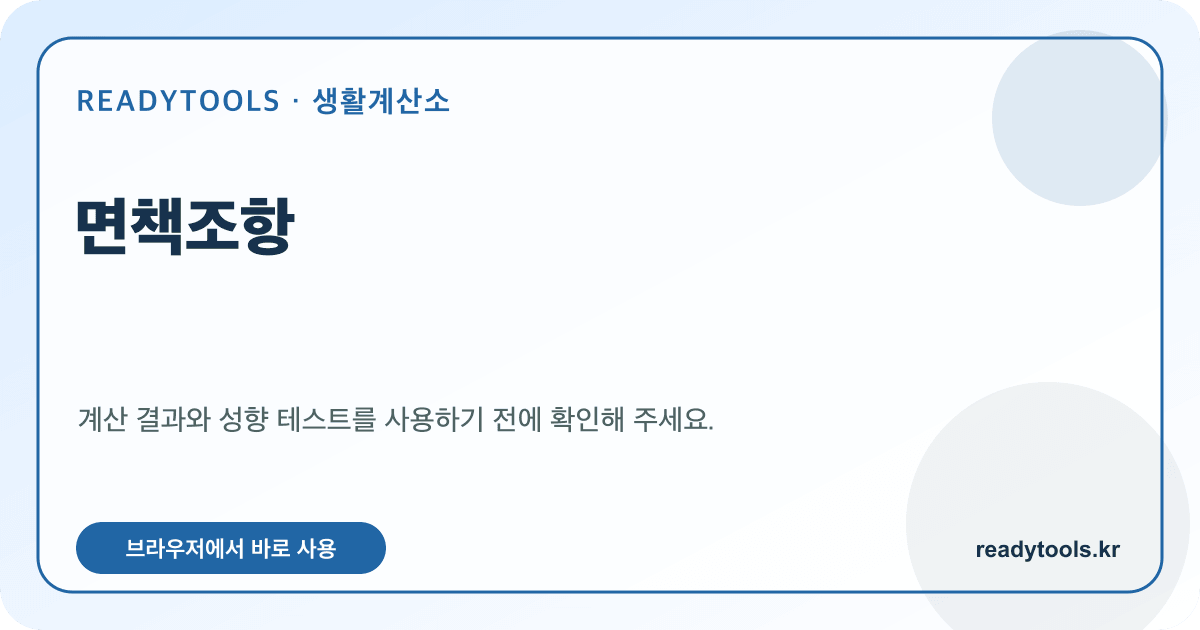
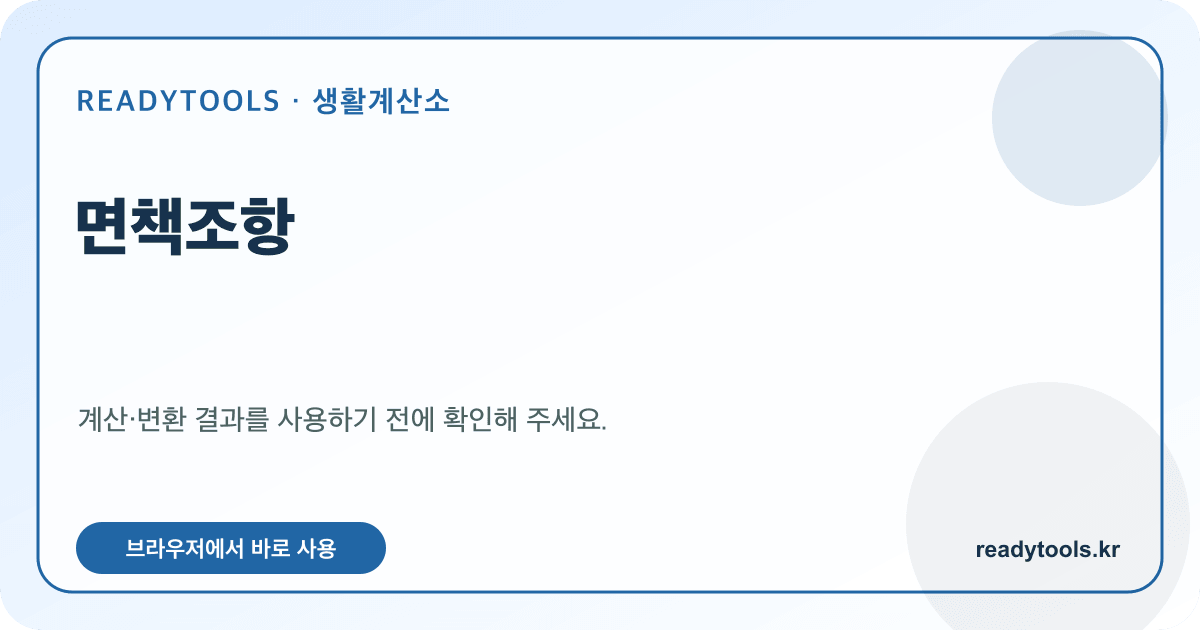
Align public site copy and expand ten published tool guides

Changed region(s): [[0.0925, 0.6333, 0.5858, 0.6937]]

diff --git a/calculator/developer/url-inspector/index.html b/calculator/developer/url-inspector/index.html
@@ -8,5 +8,5 @@
 </head>
 <body><div data-site-header></div><main id="main"><div class="container"><nav class="breadcrumb" aria-label="현재 위치"><ol><li><a href="/">생활계산소</a></li><li><a href="/#tools">전체 계산기</a></li><li aria-current="page">URL Parser·Query String 생성기</li></ol></nav><section class="hero"><p class="eyebrow">Inspect web addresses</p><h1>URL Parser·Query String 생성기</h1><p>완성된 URL의 프로토콜·호스트·경로·쿼리·해시를 분리하고 파라미터 목록으로 새 URL을 만듭니다.</p></section>
 <section class="calculator-layout" data-developer-tool="url-inspector" data-reviewed="2026-09-11"><form class="panel form-grid" novalidate><div class="field" ><label for="dev-operation">작업 선택</label><select id="dev-operation" name="operation"><option value="parse">URL Parser</option><option value="build">Query String 생성</option></select><p class="error" id="dev-operation-error" aria-live="assertive"></p></div><div class="field" data-show-when="operation:build"><label for="dev-base">기준 URL</label><input id="dev-base" name="base" type="text" placeholder="https://example.com/search" aria-describedby="dev-base-error"><p class="error" id="dev-base-error" aria-live="assertive"></p></div><div class="field" ><label for="dev-source">입력 데이터</label><textarea id="dev-source" name="source" rows="12" maxlength="500000" spellcheck="false" autocomplete="off" aria-describedby="dev-source-error" placeholder="https://example.com/search?q=생활계산소&amp;page=2#result"></textarea><p class="hint">최대 500,000자이며 입력 내용은 서버로 전송하지 않습니다.</p><p class="error" id="dev-source-error" aria-live="assertive"></p></div><div class="button-row"><button class="button button-primary" type="submit">실행하기</button><button class="button button-secondary" type="reset">초기화</button></div></form><aside class="panel result-panel" aria-live="polite"><div class="result-empty" data-result-empty>값을 입력하고 실행 버튼을 눌러주세요.</div><div class="result-content" data-result-content tabindex="-1" hidden><span class="result-kicker">처리 결과</span><div class="result-value" data-result-value></div><div class="field"><label for="dev-output">복사 가능한 결과</label><textarea class="text-output code-output" id="dev-output" data-dev-output readonly spellcheck="false"></textarea></div><p class="notice" data-result-note></p><div class="button-row"><button class="button button-primary" type="button" data-copy-result>결과 복사</button></div></div></aside></section>
-<div class="ad-slot" aria-label="광고 영역"><!-- AdSense: 결과 아래 --><span>광고</span></div><article class="section content-copy"><h2>URL Parser·Query String 생성기 작동 원리</h2><p>URL Parser는 브라우저 표준 URL 객체를 사용해 주소를 protocol, host, pathname, search parameters와 hash로 분리합니다. 퍼센트 인코딩된 쿼리 키와 값은 URLSearchParams가 읽을 수 있는 문자열로 보여줍니다. Query String 생성은 기준 URL에 key=value 줄을 순서대로 추가하고, 한글·공백·예약 문자를 표준 규칙으로 인코딩합니다. 같은 키가 여러 번 나오면 배열 관례에 사용할 수 있도록 순서를 유지한 채 반복 파라미터로 추가합니다.</p><p>이 페이지의 계산과 변환은 모두 현재 브라우저에서 실행됩니다. 원문과 결과를 ReadyTools 서버에 전송하거나 데이터베이스에 저장하지 않으며, 입력 내용은 localStorage에도 기록하지 않습니다. 다만 운영체제나 브라우저의 클립보드 기록, 확장 프로그램, 화면 공유 기능은 사이트 밖의 영역이므로 민감한 데이터는 테스트용으로 바꾸어 사용하는 편이 안전합니다.</p><h2>URL Parser·Query String 생성기 사용 방법</h2><div class="content-grid three"><section class="info-card"><h3>입력 형식 확인</h3><p>페이지에 표시된 입력 예시와 형식을 확인하고 분석하거나 변환할 데이터를 붙여 넣습니다. 오류 안내가 나오면 강조된 항목의 문법과 범위를 먼저 확인하세요.</p></section><section class="info-card"><h3>브라우저에서 실행</h3><p>실행 버튼을 누르면 외부 API 호출 없이 현재 탭에서 처리됩니다. 모바일에서는 완료 후 결과 카드로 자동 이동하며 키보드만으로도 모든 항목을 조작할 수 있습니다.</p></section><section class="info-card"><h3>결과 검토·복사</h3><p>결과의 구조와 주의사항을 확인한 뒤 복사 버튼을 사용합니다. 실제 프로젝트에 반영하기 전에는 대상 언어, 서비스와 데이터 규칙에 맞는지 다시 테스트하세요.</p></section></div><section data-content-examples><h2>구체적인 상황으로 이해하는 활용 예시</h2><p>다음 세 상황은 도구의 처리 과정과 결과 해석을 설명하기 위한 가상 예시입니다. 입력 조건을 바꾸면 결과도 달라지므로 자신의 조건과 비교해 확인하세요.</p><section class="calculation-example"><h3>1. 주소를 경로와 쿼리로 분리</h3><p>https://example.com/search?q=book&amp;page=2#list를 분석하면 경로는 /search, q 값은 book, page 값은 2, 해시는 #list입니다. 쿼리의 2는 문자열 값으로 읽으며 서버가 실제로 두 번째 페이지를 제공하는지는 확인하지 않습니다. 이 도구는 주소 구조를 해석할 뿐 해당 주소로 네트워크 요청을 보내지 않습니다.</p></section><section class="calculation-example"><h3>2. 쿼리에 공백이 들어가는 경우</h3><p>기준 주소 https://example.com/에 입력 줄 q=red blue와 page=2를 추가하면 URLSearchParams 규칙에 따라 공백이 +로 표현된 q=red+blue&amp;page=2를 만듭니다. 직접 공백을 삭제해 redblue로 바꾸면 검색어 의미가 달라집니다. 생성한 주소는 사용하려는 서비스의 파라미터 이름과 일치하는지 확인하세요.</p></section><section class="calculation-example"><h3>3. 중복 키 두 개를 유지</h3><p>같은 기준 주소에 tag=a와 tag=b를 두 줄로 넣으면 tag=a&amp;tag=b 순서로 추가합니다. 마지막 값 하나로 덮어쓰지 않으므로 같은 키가 두 번 보이는 것이 정상입니다. 서버가 배열로 읽을지 첫 값이나 마지막 값만 쓸지는 서비스 구현에 달려 있으며 이 도구가 그 의미를 통일하지 않습니다.</p></section></section><!-- content-examples:end --><p>분석 모드에서는 리디렉션 URL이나 API 요청 주소에서 어느 부분이 경로이고 어느 부분이 데이터인지 빠르게 확인할 수 있습니다. 생성 모드에서는 기준 주소와 줄별 파라미터를 분리해 작성하므로 &amp;, =, ?를 손으로 연결할 때 생기는 인코딩 실수를 줄입니다. 다만 서비스마다 배열을 tags=a&amp;tags=b, tags[]=a 또는 쉼표 문자열로 표현하는 방식이 다르므로 API 문서를 확인해야 합니다.</p><h2>주의사항</h2><p>URL에는 액세스 토큰, 이메일과 검색어 같은 민감한 정보가 포함될 수 있고 브라우저 기록, 로그와 Referer에 남을 수 있습니다. 비밀값은 가능하면 URL 쿼리가 아닌 보안 헤더나 요청 본문을 사용하세요. 이 도구는 주소의 안전성이나 목적지 신뢰도를 검사하지 않으며 링크를 자동으로 방문하지 않습니다.</p></article>
+<div class="ad-slot" aria-label="광고 영역"><!-- AdSense: 결과 아래 --><span>광고</span></div><article class="section content-copy"><h2>URL Parser·Query String 생성기 작동 원리</h2><p>URL Parser는 브라우저 표준 URL 객체를 사용해 주소를 protocol, host, pathname, search parameters와 hash로 분리합니다. 퍼센트 인코딩된 쿼리 키와 값은 URLSearchParams가 읽을 수 있는 문자열로 보여줍니다. Query String 생성은 기준 URL에 key=value 줄을 순서대로 추가하고, 한글·공백·예약 문자를 표준 규칙으로 인코딩합니다. 같은 키가 여러 번 나오면 배열 관례에 사용할 수 있도록 순서를 유지한 채 반복 파라미터로 추가합니다.</p><p>이 페이지의 계산과 변환은 모두 현재 브라우저에서 실행됩니다. 원문과 결과를 ReadyTools 서버에 전송하거나 데이터베이스에 저장하지 않으며, 입력 내용은 localStorage에도 기록하지 않습니다. 다만 운영체제나 브라우저의 클립보드 기록, 확장 프로그램, 화면 공유 기능은 사이트 밖의 영역이므로 민감한 데이터는 테스트용으로 바꾸어 사용하는 편이 안전합니다.</p><h2>URL Parser·Query String 생성기 사용 방법</h2><div class="content-grid three"><section class="info-card"><h3>입력 형식 확인</h3><p>페이지에 표시된 입력 예시와 형식을 확인하고 분석하거나 변환할 데이터를 붙여 넣습니다. 오류 안내가 나오면 강조된 항목의 문법과 범위를 먼저 확인하세요.</p></section><section class="info-card"><h3>브라우저에서 실행</h3><p>실행 버튼을 누르면 외부 API 호출 없이 현재 탭에서 처리됩니다. 모바일에서는 완료 후 결과 카드로 자동 이동하며 키보드만으로도 모든 항목을 조작할 수 있습니다.</p></section><section class="info-card"><h3>결과 검토·복사</h3><p>결과의 구조와 주의사항을 확인한 뒤 복사 버튼을 사용합니다. 실제 프로젝트에 반영하기 전에는 대상 언어, 서비스와 데이터 규칙에 맞는지 다시 테스트하세요.</p></section></div><section data-content-examples><h2>구체적인 상황으로 이해하는 활용 예시</h2><p>다음 세 상황은 도구의 처리 과정과 결과 해석을 설명하기 위한 가상 예시입니다. 입력 조건을 바꾸면 결과도 달라지므로 자신의 조건과 비교해 확인하세요.</p><section class="calculation-example"><h3>1. 주소를 경로와 쿼리로 분리</h3><p>https://example.com/search?q=book&amp;page=2#list를 분석하면 경로는 /search, q 값은 book, page 값은 2, 해시는 #list입니다. 쿼리의 2는 문자열 값으로 읽으며 서버가 실제로 두 번째 페이지를 제공하는지는 확인하지 않습니다. 이 도구는 주소 구조를 해석할 뿐 해당 주소로 네트워크 요청을 보내지 않습니다.</p></section><section class="calculation-example"><h3>2. 쿼리에 공백이 들어가는 경우</h3><p>기준 주소 https://example.com/에 입력 줄 q=red blue와 page=2를 추가하면 URLSearchParams 규칙에 따라 공백이 +로 표현된 q=red+blue&amp;page=2를 만듭니다. 직접 공백을 삭제해 redblue로 바꾸면 검색어 의미가 달라집니다. 생성한 주소는 사용하려는 서비스의 파라미터 이름과 일치하는지 확인하세요.</p></section><section class="calculation-example"><h3>3. 중복 키 두 개를 유지</h3><p>같은 기준 주소에 tag=a와 tag=b를 두 줄로 넣으면 tag=a&amp;tag=b 순서로 추가합니다. 마지막 값 하나로 덮어쓰지 않으므로 같은 키가 두 번 보이는 것이 정상입니다. 서버가 배열로 읽을지 첫 값이나 마지막 값만 쓸지는 서비스 구현에 달려 있으며 이 도구가 그 의미를 통일하지 않습니다.</p></section></section><!-- content-examples:end --><p>분석 모드에서는 리디렉션 URL이나 API 요청 주소에서 어느 부분이 경로이고 어느 부분이 데이터인지 빠르게 확인할 수 있습니다. 생성 모드에서는 기준 주소와 줄별 파라미터를 분리해 작성하므로 &amp;, =, ?를 손으로 연결할 때 생기는 인코딩 실수를 줄입니다. 다만 서비스마다 배열을 tags=a&amp;tags=b, tags[]=a 또는 쉼표 문자열로 표현하는 방식이 다르므로 API 문서를 확인해야 합니다.</p><h2>주의사항</h2><p>URL에는 액세스 토큰, 이메일과 검색어 같은 민감한 정보가 포함될 수 있고 브라우저 기록, 로그와 Referer에 남을 수 있습니다. 비밀값은 가능하면 URL 쿼리가 아닌 보안 헤더나 요청 본문을 사용하세요. 이 도구는 주소의 안전성이나 목적지 신뢰도를 검사하지 않으며 링크를 자동으로 방문하지 않습니다.</p><section class="content-depth"><h2>주소를 공유하거나 기록하기 전 확인</h2><p>URL을 분석하면 경로뿐 아니라 쿼리 문자열과 해시도 분리해 볼 수 있습니다. 같은 이름의 쿼리 키가 여러 번 나타날 수 있고, URLSearchParams는 해당 값의 순서를 유지합니다. 주소를 복사할 때는 로그인 토큰, 이메일 주소, 검색어 또는 다른 사람의 식별 정보가 매개변수에 들어 있는지 확인하세요. 이런 값은 공유받는 사람과 주소 기록에 노출될 수 있으므로 테스트용 값으로 바꾸는 편이 안전합니다.</p><p>Query String 생성 기능은 각 줄의 첫 번째 등호를 키와 값의 경계로 사용합니다. 값 안에 추가 등호가 있으면 값의 일부로 취급되므로 생성된 URL을 다시 분석해 기대한 값인지 확인하세요. 공백과 한글은 주소에서 사용할 수 있도록 인코딩되지만, 서버가 같은 키의 여러 값을 어떤 의미로 해석하는지는 이 도구가 결정하지 않습니다. 실제 API 호출 전에 대상 서비스 문서를 확인하세요.</p></section></article>
 <div class="ad-slot" aria-label="광고 영역"><!-- AdSense: 설명 아래 --><span>광고</span></div><section class="section faq"><h2>URL Parser·Query String 생성기 FAQ</h2><details><summary>상대 URL도 분석할 수 있나요?</summary><p>혼동을 줄이기 위해 http:// 또는 https://로 시작하는 절대 URL을 요구합니다.</p></details><details><summary>같은 쿼리 키를 여러 번 넣을 수 있나요?</summary><p>예. key=value 줄을 반복하면 URLSearchParams 순서대로 같은 키가 여러 번 추가됩니다.</p></details><details><summary>만든 URL의 사이트가 안전한지도 검사하나요?</summary><p>아니요. 문자열 구조만 분석하고 악성 사이트, 피싱 또는 연결 가능 여부는 판단하지 않습니다.</p></details><details><summary>입력한 데이터가 서버에 저장되나요?</summary><p>아니요. 입력과 변환은 현재 브라우저의 JavaScript에서만 처리합니다. 원문과 결과를 서버나 데이터베이스로 전송하지 않으며 localStorage에도 저장하지 않습니다.</p></details><details><summary>큰 파일이나 긴 코드를 넣어도 되나요?</summary><p>브라우저 멈춤과 메모리 사용을 줄이기 위해 텍스트 입력은 500,000자로 제한합니다. 대용량 로그나 프로젝트 전체 파일은 전용 로컬 개발 도구에서 나누어 처리하세요.</p></details></section><div class="ad-slot" aria-label="광고 영역"><!-- AdSense: 관련 도구 위 --><span>광고</span></div><section class="section"><h2>관련 개발 도구</h2><div class="tools-grid"><a class="tool-card" href="/#tools"><span class="tool-icon" aria-hidden="true">⌂</span><h3>전체 계산기</h3><p>메인 화면의 전체 목록으로 이동</p></a><a class="tool-card" href="/developer-tools/"><span class="tool-icon" aria-hidden="true">{ }</span><h3>JSON·Base64·URL</h3><p>기존 문자열 변환 도구</p></a><a class="tool-card" href="/text-tools/"><span class="tool-icon" aria-hidden="true">📝</span><h3>텍스트 도구</h3><p>글자수와 줄 정리</p></a></div></section></div></main><div data-site-footer></div></body></html>

diff --git a/privacy/index.html b/privacy/index.html
@@ -3,7 +3,7 @@
 <head>
   <meta charset="utf-8"><meta name="viewport" content="width=device-width,initial-scale=1">
   <title>개인정보처리방침 | 생활계산소</title>
-  <meta name="description" content="생활계산소의 계산 입력값 처리, localStorage, 방문자 분석, 광고 쿠키와 제휴 링크에 관한 개인정보 보호 원칙을 안내합니다.">
+  <meta name="description" content="생활계산소의 계산 입력값 처리, localStorage, 방문자 분석, 광고 쿠키와 브라우저 저장소에 관한 개인정보 보호 원칙을 안내합니다.">
   <link rel="canonical" href="https://readytools.kr/privacy/">
   <meta property="og:type" content="website"><meta property="og:locale" content="ko_KR"><meta property="og:site_name" content="생활계산소">
   <meta property="og:title" content="개인정보처리방침 | 생활계산소"><meta property="og:description" content="계산 입력값과 브라우저 저장소, 광고 쿠키에 관한 생활계산소의 개인정보 보호 원칙입니다."><meta property="og:url" content="https://readytools.kr/privacy/"><meta property="og:image" content="https://readytools.kr/assets/og/privacy.png"><meta property="og:image:width" content="1200"><meta property="og:image:height" content="630"><meta property="og:image:alt" content="개인정보처리방침 - 생활계산소">
@@ -25,10 +25,10 @@
 <ul><li>사이트명: 생활계산소(Ready Tools)</li><li>사이트 주소: <a href="https://readytools.kr">https://readytools.kr</a></li><li>운영자: Askumi</li><li>문의 이메일: <a href="mailto:hnmshop55@gmail.com">hnmshop55@gmail.com</a></li></ul><p>사이트 운영 및 개인정보 관련 문의는 운영자 Askumi에게 위 이메일로 접수할 수 있습니다.</p></section>
 <section><h2>제2조. 계산 입력값과 파일의 처리</h2>
 <p>생활계산소는 회원가입 없이 이용할 수 있으며, 계산 도구를 사용하기 위해 이름, 전화번호 또는 이메일 주소를 필수로 제출하도록 요구하지 않습니다.</p>
-<p>계산기에 입력한 값, 도구에 붙여 넣은 텍스트, 선택한 이미지와 파일, 성향 테스트의 답변 등은 기본적으로 사용자의 브라우저에서 처리됩니다. 사이트는 이러한 원문이나 파일을 계산·변환 목적으로 운영자의 별도 서버 또는 데이터베이스에 업로드하는 기능을 제공하지 않습니다.</p>
+<p>현재 제공하는 계산기에 입력한 값, 도구에 붙여 넣은 텍스트와 선택한 이미지는 기본적으로 사용자의 브라우저에서 처리됩니다. 사이트는 이러한 원문이나 파일을 계산·변환 목적으로 운영자의 별도 서버 또는 데이터베이스에 업로드하는 기능을 제공하지 않습니다.</p>
 <p>다만 브라우저 내부 처리와 웹페이지 접속 과정에서 발생하는 정보 처리는 서로 다릅니다. 페이지를 열거나 외부 광고·이미지 등을 불러오는 과정에서는 호스팅 및 외부 서비스 제공자가 접속 관련 정보를 처리할 수 있습니다.</p></section>
 <section><h2>제3조. 브라우저 저장소와 공유 기능</h2>
-<p>생활계산소는 화면 설정을 기억하고 일부 계산기에서 입력값과 체크 상태를 자동 복원하기 위해 localStorage를 사용합니다. 치킨·회식 술·피자 계산기와 여행 짐, 환전, 여행 예산, 해외여행 경비, 택배 박스, 돌잔치 음식량, 케이크 호수, 구독료, 차량 유지비, 반려동물 간식 수율 및 해외직구 도구의 입력값은 현재 기기의 브라우저에만 저장되며 서버로 전송되지 않습니다. 단위 변환 종류, 날짜 계산 방식, QR 크기, 비밀번호 문자 구성, 텍스트 작업 종류, 이미지 저장 형식·압축 품질·방향 설정, 개발자 도구의 작업 종류·들여쓰기·URL 처리 범위와 색상 도구의 마지막 색상은 사용자 설정으로 저장합니다. 새 색상 변환기와 색상 선택기는 마지막 색상만 설정으로 저장합니다. 팔레트·EXIF·사진 색상 도구의 이미지, 금융 계산값, 견적서·청구서 정보, 참고문헌 정보, 가독성 분석 원문과 결과, 성향·재미 테스트의 답변과 점수는 localStorage에 저장하지 않습니다. 변환 숫자, 선택 날짜, QR에 넣은 내용, 생성된 비밀번호, 원본 텍스트, JSON·Base64·URL 입력과 처리 결과, 이미지 파일과 이미지 처리 결과도 저장하지 않습니다. 참가자 이름과 결제금액을 다루는 여행 경비 분배 계산기는 입력값을 localStorage나 공유 URL에 저장하지 않습니다. 해당 도구의 초기화 기능이나 브라우저의 사이트 데이터 삭제 기능을 이용할 수 있습니다. 특정 도구의 초기화가 사이트 전체의 설정과 모든 저장 데이터를 삭제하는 것은 아닙니다.</p><p>일부 계산기는 계산 조건을 웹주소의 매개변수에 포함합니다. 이 주소를 복사하거나 공유하면 받는 사람이 해당 조건을 확인할 수 있으며, 브라우저 방문 기록이나 해당 주소로 다시 접속할 때 발생하는 요청에 조건이 남을 수 있습니다. 공유 전 주소와 공유 내용을 확인해 주세요.</p>
+<p>생활계산소는 화면 테마와 일부 도구의 사용자 설정을 기억하기 위해 localStorage를 사용합니다. 현재 제공하는 여행 예산 도구는 입력 조건을 같은 기기의 브라우저에 저장할 수 있습니다. 이미지 도구는 저장 형식·품질·방향 설정, 텍스트·개발·색상 도구는 선택한 작업 종류나 마지막 색상을 설정으로 저장할 수 있습니다. 원본 이미지, 텍스트 분석 원문과 변환 결과, 부동산 계산값은 이러한 설정 저장의 대상이 아닙니다. 참가자 이름과 결제금액을 다루는 여행 경비 분배 계산기는 입력값을 localStorage나 공유 URL에 저장하지 않습니다. 해당 도구의 초기화 기능이나 브라우저의 사이트 데이터 삭제 기능을 이용할 수 있습니다. 특정 도구의 초기화가 사이트 전체의 설정과 모든 저장 데이터를 삭제하는 것은 아닙니다.</p><p>현재 공개 도구의 결과 공유는 이용자가 복사하거나 기기의 공유 기능을 실행할 때만 이루어집니다. 주소를 다른 사람에게 보내기 전에는 매개변수나 복사한 결과에 개인정보가 포함되어 있는지 확인해 주세요.</p>
 <p>로컬 저장소에 기록된 정보는 같은 기기와 브라우저에서 다시 방문할 때 이용됩니다. 공용 기기에서는 이용 후 입력 내용과 다운로드 파일, 클립보드 및 브라우저 저장 데이터를 직접 확인해 주세요.</p></section>
 <section><h2>제4조. 이메일 문의로 수집되는 정보</h2>
 <p>이용자가 이메일로 문의하는 경우, 운영자는 회신을 위한 이메일 주소, 발신자 표시명, 문의 본문과 이용자가 자발적으로 첨부한 자료를 확인하게 됩니다.</p>
@@ -52,8 +52,8 @@
 <p>브라우저 설정에서도 쿠키를 삭제하거나 제3자 쿠키를 차단할 수 있습니다. 메뉴의 명칭과 방법은 브라우저와 기기에 따라 다릅니다.</p>
 <p>맞춤 광고를 해제하더라도 광고 자체가 모두 사라지는 것은 아닙니다. 또한 맞춤 광고 해제가 광고 측정, 보안 또는 부정 이용 방지 등에 필요한 모든 저장·처리를 일괄적으로 중단한다는 의미는 아닙니다. 사이트 데이터를 삭제하면 저장해 둔 화면 설정과 일부 계산 조건도 함께 삭제될 수 있습니다.</p></section>
 <section><h2>제9조. 제휴 링크와 외부 사이트</h2>
-<p>사이트 일부에는 쿠팡파트너스 등 제휴 링크와 외부 상품 이미지가 포함될 수 있습니다. 해당 링크를 통해 구매가 이루어지는 경우 운영자가 일정한 수수료를 제공받을 수 있으며, 관련 사실은 해당 콘텐츠에서 안내합니다.</p>
-<p>외부 이미지를 불러오거나 제휴 링크를 클릭하면 해당 서비스가 접속 정보, 방문 출처 또는 쿠키 관련 정보를 처리할 수 있습니다. 이동한 외부 사이트에서의 개인정보 처리와 구매 절차에는 해당 사이트의 정책이 적용됩니다.</p></section>
+<p>현재 공개된 10개 도구 페이지에는 쿠팡파트너스 등 상품 제휴 링크를 게재하지 않습니다. 향후 제휴 링크를 다시 제공할 경우 해당 페이지의 고지와 이 방침을 실제 운영 상태에 맞게 갱신합니다.</p>
+<p>외부 서비스로 이동하는 링크를 선택하면 해당 서비스의 개인정보처리방침이 적용됩니다. 링크를 누르기 전에 이동 대상 주소를 확인해 주세요.</p></section>
 <section><h2>제10조. 이용자의 권리와 요청 방법</h2>
 <p>이용자는 운영자가 보유한 본인의 문의 정보에 대해 열람, 정정, 삭제 또는 처리정지 등을 요청할 수 있습니다. 요청은 <a href="mailto:hnmshop55@gmail.com">hnmshop55@gmail.com</a>으로 보내 주세요.</p>
 <p>운영자는 요청자의 권리를 보호하기 위해 필요한 범위에서 본인 여부와 요청 내용을 확인할 수 있으며, 관계 법령에서 정한 절차에 따라 대응합니다. 법령상 보존 의무 등으로 요청을 제한해야 하는 경우에는 그 사유를 안내합니다.</p>

diff --git a/about/index.html b/about/index.html
@@ -16,19 +16,19 @@
 </head>
 <body><div data-site-header></div><main id="main"><div class="container">
   <nav class="breadcrumb" aria-label="현재 위치"><ol><li><a href="/">생활계산소</a></li><li aria-current="page">사이트 소개</li></ol></nav>
-  <section class="hero"><p class="eyebrow">About</p><h1>애매한 준비를<br>조금 더 자신 있게.</h1><p>생활계산소는 모임과 여행, 이사처럼 가끔 찾아와 기준을 찾기 어려운 순간을 위해 만들어졌습니다.</p></section>
+  <section class="hero"><p class="eyebrow">About</p><h1>애매한 준비를<br>조금 더 자신 있게.</h1><p>생활계산소는 여행·부동산·날짜 계산과 브라우저 도구를 한곳에서 쉽게 이용할 수 있도록 만들었습니다.</p></section>
 
   <article class="section content-copy prose">
 <section><h2>일상의 작은 계산을 더 쉽고 명확하게</h2>
 <p>생활계산소(Ready Tools)는 일상에서 자주 마주치는 계산과 준비 과정을 조금 더 간편하게 만들기 위해 시작한 무료 웹 서비스입니다.</p>
-<p>친구들과 함께 먹을 음식은 얼마나 준비해야 할지, 여행 경비는 어떻게 나눠야 할지, 이사할 때 박스가 몇 개나 필요할지 고민해 본 적이 있으신가요? 어렵지 않은 계산이라도 기준을 찾고, 단위를 맞추고, 여러 조건을 비교하다 보면 생각보다 많은 시간이 필요합니다.</p>
+<p>여행 경비를 어떻게 나눌지, 예산은 얼마가 필요한지, 부동산 계약 전에 세금과 중개보수를 어떻게 가늠할지 고민해 본 적이 있으신가요? 어렵지 않은 계산이라도 적용 기준을 찾고 여러 조건을 비교하다 보면 생각보다 많은 시간이 필요합니다.</p>
 <p>생활계산소는 이러한 불편을 줄이고자 필요한 조건을 입력하면 결과와 계산 기준을 함께 확인할 수 있는 도구를 제공합니다. 여러 검색 결과를 오가거나 복잡한 프로그램을 설치하지 않아도, 웹 브라우저에서 필요한 계산을 시작할 수 있도록 구성했습니다.</p></section>
 <section><h2>숫자와 함께 이해를 제공하는 도구</h2>
 <p>생활계산소가 중요하게 생각하는 것은 결과를 빠르게 보여주는 것뿐만 아니라, 사용자가 그 결과를 이해하고 자신의 상황에 맞게 활용할 수 있도록 돕는 것입니다.</p>
 <p>각 도구에서는 가능한 범위에서 계산 원리, 적용한 가정, 구체적인 사용 예시와 자주 묻는 질문을 안내합니다. 같은 입력값이라도 실제 상황에서는 결과가 달라질 수 있는 이유, 계산에 포함되지 않은 비용이나 예외 조건도 함께 설명하고자 합니다.</p>
-<p>예를 들어 음식 준비량은 모든 사람에게 똑같이 적용되는 정답이 아닙니다. 참석자의 식사량, 다른 메뉴의 구성, 행사 시간에 따라 조정이 필요합니다. 금융·부동산 관련 계산 역시 입력 조건과 적용 기준에 따른 참고 결과이며, 실제 계약이나 신고 과정에서 확인해야 할 사항이 남아 있을 수 있습니다. 생활계산소는 이러한 차이를 숨기지 않고 설명하는 것을 서비스의 중요한 원칙으로 삼습니다.</p></section>
+<p>예를 들어 여행 예산은 숙박 일수, 참가 인원과 활동 계획에 따라 달라집니다. 금융·부동산 관련 계산 역시 입력 조건과 적용 기준에 따른 참고 결과이며, 실제 계약이나 신고 과정에서 확인해야 할 사항이 남아 있을 수 있습니다. 생활계산소는 이러한 차이를 숨기지 않고 설명하는 것을 서비스의 중요한 원칙으로 삼습니다.</p></section>
 <section><h2>다양한 생활 도구를 한곳에서</h2>
-<p>생활계산소에서는 음식과 모임 준비, 여행 예산과 경비 정산, 생활비 비교, 날짜와 단위 변환 등 일상에 가까운 계산 도구를 제공합니다. 금융·부동산 참고 계산, 문서 작성 보조, 이미지·텍스트·색상 처리와 개발 작업에 활용할 수 있는 도구도 함께 운영합니다.</p>
+<p>현재 생활계산소에서는 여행 예산·경비 정산과 날짜 계산, 부동산 취득세·중개보수 참고 계산, 이미지·텍스트·색상 처리와 개발 작업에 쓰는 도구를 포함하여 10개 페이지를 제공합니다.</p>
 <p>회원가입이나 별도의 앱 설치 없이 이용할 수 있으며, 휴대전화와 컴퓨터에서 필요한 도구에 접근할 수 있도록 구성했습니다. 처음 방문한 사용자도 입력 항목과 결과의 의미를 이해할 수 있도록 쉬운 표현과 구체적인 예시를 사용하고자 합니다.</p></section>
 <section><h2>운영과 콘텐츠 개선 원칙</h2>
 <p>생활계산소는 운영자 <strong>Askumi</strong>가 기획하고 관리합니다. 계산식과 설명, 입력 항목과 표시 결과가 서로 일치하는지 확인하고, 오류 제보가 접수되면 재현 가능한 조건을 바탕으로 개선 사항을 검토합니다.</p>
@@ -38,7 +38,7 @@
 <p>계산과 파일 처리는 기본적으로 사용자의 브라우저에서 실행되도록 구현되어 있습니다. 일부 도구는 편의를 위해 입력 조건이나 설정을 해당 브라우저에 저장하며, 일부 공유 기능은 계산 조건을 주소에 포함할 수 있습니다.</p>
 <p>이와 별도로 웹페이지 접속, 외부 광고와 제휴 서비스 이용 과정에서는 접속 정보나 쿠키 등이 처리될 수 있습니다. 구체적인 내용은 <a href="/privacy/">개인정보처리방침</a>에서 안내합니다.</p></section>
 <section><h2>생활계산소가 지향하는 방향</h2>
-<p>생활계산소는 복잡한 판단을 대신 내리기보다, 사용자가 판단에 필요한 숫자와 조건을 더 쉽게 확인하도록 돕고자 합니다. 많은 기능을 제공하는 것과 함께, 각 도구가 이해하기 쉽고 실제 생활에서 쓸모 있는지도 꾸준히 살펴보겠습니다.</p>
+<p>생활계산소는 복잡한 판단을 대신 내리기보다, 사용자가 판단에 필요한 숫자와 조건을 더 쉽게 확인하도록 돕고자 합니다. 현재 제공하는 10개 도구가 이해하기 쉽고 실제 생활에서 쓸모 있는지도 꾸준히 살펴보겠습니다.</p>
 <p>작은 불편이나 계산 오류, 새로운 도구에 대한 아이디어가 있다면 알려주세요. 사용자의 경험을 바탕으로 설명을 보완하고 도구의 활용성을 높여 나가겠습니다.</p><ul><li>사이트명: 생활계산소(Ready Tools)</li><li>사이트 주소: <a href="https://readytools.kr">https://readytools.kr</a></li><li>운영자: Askumi</li><li>문의 이메일: <a href="mailto:hnmshop55@gmail.com">hnmshop55@gmail.com</a></li></ul></section>
 <h2>도구 둘러보기</h2><p>현재 메인에서는 부동산 계산, 여행 예산과 경비 정산, 날짜 계산, 이미지·텍스트·색상 및 개발 작업을 위한 10개 도구를 안내합니다.</p><ul><li><a href="/real-estate-acquisition-tax-calculator/">부동산 취득세 계산기</a></li><li><a href="/real-estate-brokerage-fee-calculator/">부동산 중개보수·복비 계산기</a></li><li><a href="/text-tools/">글자수 세기·텍스트 도구</a></li><li><a href="/developer-tools/">JSON·Base64·URL 개발자 도구</a></li><li><a href="/color-tools/">HEX ↔ RGB 변환·색상 선택기</a></li><li><a href="/image-tools/">이미지 크기 변경·압축 도구</a></li><li><a href="/travel-budget-calculator/">여행 예산 계산기</a></li><li><a href="/date-calculator/">날짜 계산기</a></li><li><a href="/developer/url-inspector/">URL Parser·Query String 생성기</a></li><li><a href="/travel-expense-splitter/">여행 경비 분배 계산기</a></li></ul>
     <div class="button-row"><a class="button button-primary" href="/#tools">전체 계산기 검색하기</a><a class="button button-secondary" href="/methodology/">계산 기준 확인하기</a></div>

diff --git a/disclaimer/index.html b/disclaimer/index.html
@@ -1,8 +1,8 @@
-<!doctype html><html lang="ko"><head><meta charset="utf-8"><meta name="viewport" content="width=device-width,initial-scale=1"><title>면책조항 | 생활계산소</title><meta name="description" content="생활계산소 계산 결과와 성향 테스트의 한계, 의료·법률·재무 등 전문 판단에 관한 면책사항을 안내합니다."><link rel="canonical" href="https://readytools.kr/disclaimer/"><meta property="og:type" content="website"><meta property="og:locale" content="ko_KR"><meta property="og:site_name" content="생활계산소"><meta property="og:title" content="면책조항 | 생활계산소"><meta property="og:description" content="계산 결과와 성향 테스트를 사용하기 전에 확인해 주세요."><meta property="og:url" content="https://readytools.kr/disclaimer/"><meta property="og:image" content="https://readytools.kr/assets/og/disclaimer.png"><meta property="og:image:width" content="1200"><meta property="og:image:height" content="630"><meta property="og:image:alt" content="면책조항 - 생활계산소"><link rel="stylesheet" href="/assets/styles.css?v=form-align-20260904"><script src="/assets/site-config.js?v=20260806-1"></script><script src="/assets/head.js?v=20260806-1"></script><script src="/assets/site.js?v=20260806-1" defer></script>  <meta property="og:image:type" content="image/png">
+<!doctype html><html lang="ko"><head><meta charset="utf-8"><meta name="viewport" content="width=device-width,initial-scale=1"><title>면책조항 | 생활계산소</title><meta name="description" content="생활계산소의 계산·변환 결과의 한계, 의료·법률·재무 등 전문 판단에 관한 면책사항을 안내합니다."><link rel="canonical" href="https://readytools.kr/disclaimer/"><meta property="og:type" content="website"><meta property="og:locale" content="ko_KR"><meta property="og:site_name" content="생활계산소"><meta property="og:title" content="면책조항 | 생활계산소"><meta property="og:description" content="계산·변환 결과를 사용하기 전에 확인해 주세요."><meta property="og:url" content="https://readytools.kr/disclaimer/"><meta property="og:image" content="https://readytools.kr/assets/og/disclaimer.png"><meta property="og:image:width" content="1200"><meta property="og:image:height" content="630"><meta property="og:image:alt" content="면책조항 - 생활계산소"><link rel="stylesheet" href="/assets/styles.css?v=form-align-20260904"><script src="/assets/site-config.js?v=20260806-1"></script><script src="/assets/head.js?v=20260806-1"></script><script src="/assets/site.js?v=20260806-1" defer></script>  <meta property="og:image:type" content="image/png">
   <meta name="twitter:card" content="summary_large_image">
   <meta name="twitter:title" content="면책조항 | 생활계산소">
-  <meta name="twitter:description" content="계산 결과와 성향 테스트를 사용하기 전에 확인해 주세요.">
+  <meta name="twitter:description" content="계산·변환 결과를 사용하기 전에 확인해 주세요.">
   <meta name="twitter:image" content="https://readytools.kr/assets/og/disclaimer.png">
   <meta name="twitter:image:alt" content="면책조항 - 생활계산소">
   <meta name="twitter:domain" content="readytools.kr">
-</head><body><div data-site-header></div><main id="main"><div class="container"><nav class="breadcrumb" aria-label="현재 위치"><ol><li><a href="/">홈</a></li><li aria-current="page">면책조항</li></ol></nav><section class="hero"><p class="eyebrow">Disclaimer</p><h1>면책조항</h1><p>마지막 업데이트: 2026년 9월 12일</p></section><article class="prose"><h2>참고용 정보</h2><p>생활계산소의 계산 결과와 설명은 일반적인 생활 계획을 돕기 위한 참고 자료입니다. 정확성, 완전성 또는 특정 목적에 대한 적합성을 보증하지 않습니다.</p><h2>성향·재미 테스트</h2><p>성향·재미 테스트는 사용자가 고른 답변을 바탕으로 일상의 선호를 가볍게 돌아보는 콘텐츠입니다. 결과는 공식 심리검사, 성격 진단, 적성검사, 채용 평가나 전문 상담이 아니며 유형 이름만으로 자신이나 다른 사람의 능력과 행동을 단정해서는 안 됩니다.</p><h2>개인차와 실제 비용</h2><p>식사량, 차량 연비, 지역 가격, 물품 부피, 행사 환경 등에 따라 실제 결과는 크게 달라질 수 있습니다. 구매나 계약 전에 실제 조건을 다시 확인하세요.</p><h2>전문가 조언의 대체 아님</h2><p>이 사이트는 의료, 영양, 법률, 세무, 회계 또는 재무 전문가의 조언을 대신하지 않습니다. 중요한 결정을 내릴 때는 자격 있는 전문가에게 문의하세요.</p><h2>외부 서비스</h2><p>이메일 링크와 호스팅 제공자 등 외부 서비스의 이용에는 각 서비스의 정책이 적용됩니다.</p></article></div></main><div data-site-footer></div></body></html>
+</head><body><div data-site-header></div><main id="main"><div class="container"><nav class="breadcrumb" aria-label="현재 위치"><ol><li><a href="/">홈</a></li><li aria-current="page">면책조항</li></ol></nav><section class="hero"><p class="eyebrow">Disclaimer</p><h1>면책조항</h1><p>마지막 업데이트: 2026년 9월 12일</p></section><article class="prose"><h2>참고용 정보</h2><p>생활계산소의 계산 결과와 설명은 일반적인 생활 계획을 돕기 위한 참고 자료입니다. 정확성, 완전성 또는 특정 목적에 대한 적합성을 보증하지 않습니다.</p><h2>변환 도구의 결과</h2><p>텍스트·이미지·색상 및 개발 도구의 결과는 원본과 이용 목적에 맞게 검토해야 합니다. 대상 서비스의 형식 제한이나 접근성 기준을 자동으로 보증하지 않습니다.</p><h2>개인차와 실제 비용</h2><p>여행 시기와 지역 가격, 실제 계약 조건 등에 따라 지출이나 세금은 계산 결과와 달라질 수 있습니다. 구매나 계약 전에 실제 조건을 다시 확인하세요.</p><h2>전문가 조언의 대체 아님</h2><p>이 사이트는 의료, 영양, 법률, 세무, 회계 또는 재무 전문가의 조언을 대신하지 않습니다. 중요한 결정을 내릴 때는 자격 있는 전문가에게 문의하세요.</p><h2>외부 서비스</h2><p>이메일 링크와 호스팅 제공자 등 외부 서비스의 이용에는 각 서비스의 정책이 적용됩니다.</p></article></div></main><div data-site-footer></div></body></html>

diff --git a/calculator/travel-expense-splitter/index.html b/calculator/travel-expense-splitter/index.html
@@ -16,6 +16,6 @@
 <section class="calculation-example"><h3>3명이 각각 120,000원, 45,000원, 30,000원을 결제한 경우</h3><p>민수·지수·하늘을 참가자로 넣고 각 결제액을 입력하면 총액은 195,000원입니다. 3명으로 나눈 65,000원이 각자의 최종 부담액이므로 민수는 55,000원을 받아야 하고 지수는 20,000원, 하늘은 35,000원을 보내야 합니다. 도구는 하늘에서 민수로 35,000원, 지수에서 민수로 20,000원을 안내합니다. 정산 뒤 민수의 부담도 120,000 − 55,000 = 65,000원이 됩니다.</p></section>
 <section class="calculation-example"><h3>한 사람이 100,000원을 전액 결제한 경우</h3><p>참가자는 가·나·다 세 명으로 입력하되 결제 내역은 가, 100000 한 줄만 넣습니다. 결제하지 않은 두 사람도 참가자 명단에는 있어야 3명으로 나눕니다. 정확한 부담액은 100,000 ÷ 3 = 33,333.333…원이고 화면에는 33,333원씩 표시됩니다. 나와 다가 각각 33,333원을 보내면 가의 최종 부담은 33,334원으로 1원 더 큽니다. 원화로 나누어떨어지지 않는 경우에는 누가 잔여 1원을 맡을지 정하면 됩니다.</p></section>
 <section class="calculation-example"><h3>4명이 80,000원, 60,000원, 40,000원, 20,000원을 결제한 경우</h3><p>가·나·다·라의 결제 총액은 200,000원이고 1인 부담은 50,000원입니다. 가는 30,000원, 나는 10,000원을 받아야 하며 다는 10,000원, 라는 30,000원을 보내야 합니다. 따라서 라에서 가로 30,000원, 다에서 나로 10,000원의 두 번 송금으로 맞출 수 있습니다. 각자의 개인 쇼핑이 결제 내역에 섞여 있다면 먼저 빼야 하며, 도구는 공용 지출과 개인 지출을 자동으로 판별하지 않습니다.</p></section>
-</article>
+<section class="content-depth"><h2>여러 번 결제한 사람을 정리할 때</h2><p>한 참가자가 식비와 숙박비를 여러 번 결제했다면 같은 이름으로 여러 줄을 입력해도 도구가 금액을 합산합니다. 이름의 철자나 띄어쓰기가 달라지면 다른 참가자로 취급될 수 있으므로 송금 목록을 계산하기 전에 이름 목록을 확인하세요. 공동 비용이 아닌 개인 쇼핑이나 일부 사람만 참여한 활동비는 입력에서 제외하거나 별도의 정산표를 만들어야 전체 부담액이 뜻하는 바가 명확해집니다.</p><p>결제 합계가 참가자 수로 나누어떨어지지 않을 때는 화면 표시와 실제 송금에서 원 단위 차이가 남을 수 있습니다. 송금 전에는 참가자별로 보낼 금액과 받을 금액의 합계가 맞는지 확인하고 소액 차이는 당사자끼리 조정하세요. 도구가 제안하는 송금 순서는 잔액을 맞추는 간편한 방식이며 모든 상황에서 송금 횟수가 최소임을 증명하는 기능은 아닙니다. 정산 결과를 복사할 때 개인정보가 포함되지 않았는지도 살펴보세요.</p></section></article>
 <section class="section faq"><h2>여행 경비 분배 자주 묻는 질문</h2><details><summary>결제 내역은 저장되나요?</summary><p>아닙니다. 이름과 결제금액은 현재 브라우저에서만 계산하며 localStorage나 공유 URL에 저장하지 않습니다. 필요한 경우 참가자별 부담액과 송금 내역이 포함된 결과 텍스트만 복사하세요.</p></details><details><summary>여러 번 결제한 사람은 어떻게 입력하나요?</summary><p>같은 이름으로 줄을 여러 개 추가하면 금액을 자동으로 합산합니다. 참가자 목록의 이름과 결제 내역의 이름은 띄어쓰기까지 동일하게 입력해야 합니다.</p></details><details><summary>사람마다 부담 비율이 다르면 어떻게 하나요?</summary><p>현재 도구는 동일 분배 전용입니다. 어린이 할인, 숙박일 차이 또는 개인 비용이 있다면 해당 금액을 먼저 별도로 정리한 뒤 공용 비용만 입력하세요.</p></details><details><summary>환불받은 금액은 음수로 입력할 수 있나요?</summary><p>현재 결제 내역은 0보다 큰 금액만 받습니다. 환불이 있다면 원래 결제금액에서 환불액을 뺀 실제 부담액을 계산해 양수로 입력하세요.</p></details><details><summary>1원 단위 차이는 어떻게 처리하나요?</summary><p>총액이 인원수로 정확히 나누어지지 않으면 반올림 때문에 몇 원 차이가 생길 수 있습니다. 가장 많이 결제한 사람 또는 마지막 송금에서 차액을 조정하고 일행에게 알려주세요.</p></details><details><summary>결과를 카카오톡이나 메신저로 보낼 수 있나요?</summary><p>‘참가자별 정산 결과 복사’를 누르면 총경비, 각 참가자의 부담액과 송금 내역이 텍스트로 복사됩니다. 원하는 메신저 대화방에 직접 붙여넣으면 됩니다.</p></details></section>
 <section class="section"><h2>함께 쓰기 좋은 계산기</h2><div class="tools-grid"><a class="tool-card" href="/travel-budget-calculator/"><span class="tool-icon" aria-hidden="true">💰</span><h3>여행 예산</h3><p>여행 전 전체 예산 계획</p></a></div></section></div></main><div data-site-footer></div></body></html>

diff --git a/methodology/index.html b/methodology/index.html
@@ -25,9 +25,9 @@
     <p>생활계산소는 운영자 Askumi가 기획하고 관리하는 생활 도구 사이트입니다. 각 계산기의 입력 항목, 계산식, 설명과 예시는 사이트에서 직접 작성하고 검토합니다. 다른 사이트의 글을 가져와 단어만 바꾸거나, 검색어를 늘리기 위해 내용이 거의 같은 페이지를 반복해서 만들지 않습니다. 계산 결과나 설명에서 오류를 발견하면 <a href="/contact/">문의하기</a>에 안내된 이메일로 알려주세요. 재현 가능한 입력값과 예상 결과를 함께 보내주시면 계산식과 화면 설명을 확인합니다.</p>
 
     <h2>계산 기준을 정하는 방법</h2>
-    <p>단위 변환, 날짜 차이, 비용 합산처럼 수학적으로 결과가 정해지는 도구는 계산식을 그대로 코드로 구현합니다. 여행 주유비는 이동거리 ÷ 연비로 필요한 연료를 구한 뒤 리터당 가격과 통행료를 더하고, 경비 분배는 총 결제액을 참가자 수로 나누어 각자의 과부족 금액을 맞춥니다. 계산기 본문에는 사용한 식과 입력 단위를 설명하여 사용자가 직접 결과를 검산할 수 있게 합니다.</p>
-    <p>음식량, 이사 박스, 행사 준비처럼 하나의 정답이 없는 도구는 일반적인 계획을 위한 기준값을 먼저 정하고 인원, 기간, 상황에 따른 계수를 적용합니다. 이런 결과에는 ‘추천’, ‘예상’, ‘추정치’라고 표시하며 공인 권장량이나 구매 보증처럼 표현하지 않습니다. 개인차가 큰 요소, 계산에 포함하지 않은 비용, 판매처마다 달라지는 규격도 각 페이지의 주의사항에 안내합니다.</p>
-    <p>전기요금, 환율, 택배비처럼 시기와 사업자에 따라 바뀌는 값은 외부 API로 자동 수집하지 않습니다. 사용자가 최신 값을 직접 입력하도록 하거나, 특정 공개 기준을 사용한 경우 적용 기준일과 범위를 계산기 본문에 표시합니다. 실제 결제 전에는 해당 기관이나 사업자의 최신 고지 내용을 다시 확인해야 합니다.</p>
+    <p>날짜 차이와 비용 합산처럼 수학적으로 결과가 정해지는 도구는 계산식을 그대로 코드로 구현합니다. 여행 예산은 1인당 비용과 전체 비용을 나누어 합산하고, 경비 분배는 총 결제액을 참가자 수로 나누어 각자의 과부족 금액을 맞춥니다. 계산기 본문에는 사용한 식과 입력 단위를 설명하여 사용자가 직접 결과를 검산할 수 있게 합니다.</p>
+    <p>여행 예산처럼 하나의 정답이 없는 도구는 숙박 일수, 인원, 활동 계획과 사용자가 입력한 단가를 바탕으로 계획 금액을 합산합니다. 이런 결과에는 ‘예상’, ‘추정치’라고 표시하며 실제 지출을 보증하는 표현은 사용하지 않습니다. 계산에 포함하지 않은 비용과 입력값에 따른 차이도 각 페이지의 주의사항에 안내합니다.</p>
+    <p>부동산 세율·중개보수 요율과 여행 비용처럼 기준이나 가격이 달라질 수 있는 값은 외부 API로 자동 수집하지 않습니다. 사용자가 확인한 값을 직접 입력하도록 하거나, 공개 기준을 사용한 경우 적용 기준일과 범위를 계산기 본문에 표시합니다. 실제 결제 전에는 해당 기관이나 사업자의 최신 고지 내용을 다시 확인해야 합니다.</p>
 
     <h2>출시 전 검수 항목</h2>
     <div class="content-grid three">
@@ -37,7 +37,7 @@
     </div>
 
     <h2>수정과 업데이트 원칙</h2>
-    <p>오류가 확인되면 계산 코드와 설명을 함께 수정해 서로 다른 결과가 나오지 않도록 합니다. 요금이나 규격처럼 바뀔 수 있는 정보는 기준일을 새로 표시하며, 전체 계산기의 공통 검토일도 실제 점검 시점에만 변경합니다. 기능을 추가할 때는 기존 URL을 가능한 유지하고, 없어진 페이지는 사용자가 길을 잃지 않도록 관련 도구로 안내합니다.</p>
+    <p>오류가 확인되면 계산 코드와 설명을 함께 수정해 서로 다른 결과가 나오지 않도록 합니다. 요금이나 규격처럼 바뀔 수 있는 정보는 기준일을 새로 표시하며, 해당 계산기의 검토일도 실제 점검 시점에만 변경합니다. 기능을 추가할 때는 기존 URL을 가능한 유지하고, 없어진 페이지는 사용자가 길을 잃지 않도록 관련 도구로 안내합니다.</p>
     <p>생활계산소의 결과는 준비와 비교를 돕는 출발점입니다. 의료·법률·세무·투자 판단을 대신하지 않으며, 큰 금액이나 안전에 영향을 주는 결정은 공식 자료와 전문가의 안내를 우선해야 합니다. 자세한 책임 범위는 <a href="/disclaimer/">면책조항</a>에서 확인할 수 있습니다.</p>
   </article>
 </div></main><div data-site-footer></div></body>

diff --git a/calculator/travel-budget-calculator/index.html b/calculator/travel-budget-calculator/index.html
@@ -14,6 +14,6 @@
 <section class="calculation-example"><h3>2명이 2박 3일 여행을 계획하는 경우</h3><p>1인 교통비 100,000원, 전체 객실의 1박 요금 120,000원, 1인 하루 식비 50,000원과 활동비 30,000원, 기타 0원과 예비비 10%를 입력합니다. 교통비는 200,000원, 숙박비는 240,000원, 식비·활동비는 80,000 × 2 × 3 = 480,000원입니다. 기본 비용 920,000원에 예비비 92,000원을 더하면 총예산은 1,012,000원이고 1인당 506,000원입니다. 숙박비에 다시 인원수를 곱하지 않는 것이 핵심입니다.</p></section>
 <section class="calculation-example"><h3>4인 가족이 객실 두 개를 쓰는 2박 3일 여행</h3><p>객실 한 개가 1박 90,000원이라면 숙박비 입력란에는 두 객실 합계 180,000원을 넣습니다. 1인 교통비 40,000원, 하루 식비 30,000원, 하루 활동비 10,000원, 기타 50,000원으로 가정하면 기본 비용은 160,000 + 360,000 + 480,000 + 50,000 = 1,050,000원입니다. 예비비 5%인 52,500원을 더한 총액은 1,102,500원이고 1인당 275,625원입니다. 어린이 할인은 자동 반영되지 않으므로 개인별 비용 차이는 평균 금액으로 조정하거나 따로 기록해야 합니다.</p></section>
 <section class="calculation-example"><h3>3명이 숙박 없이 당일치기로 다녀오는 경우</h3><p>여행 1일, 숙박 0박, 1인 교통비 20,000원, 하루 식비 25,000원과 활동비 15,000원, 기타 비용 30,000원으로 입력합니다. 교통비 60,000원과 식비·활동비 120,000원, 기타 30,000원의 합계는 210,000원입니다. 예비비를 0%로 두면 총액은 그대로 210,000원, 1인당 70,000원입니다. 숙박비 칸에 값이 남아 있어도 0박이면 숙박 합계는 0원이므로 당일 여행과 숙박 여행을 같은 구조로 비교할 수 있습니다.</p></section>
-</article>
+<section class="content-depth"><h2>여행 예산을 현실적인 견적으로 바꾸는 방법</h2><p>교통비와 숙박비는 총액인지 1인당인지 입력 기준을 먼저 맞춰야 합니다. 숙박은 밤 수를 기준으로, 식비와 활동비는 여행 일수와 인원에 따라 곱해지는 부분이 있으므로 같은 금액을 여러 항목에 중복 입력하지 않도록 영수증 또는 예약 화면을 기준으로 분류하세요. 식비를 하루 1인 기준으로 넣었다면 이미 전체 인원이 포함된 식당 예약 금액을 다시 식비에 더하지 않는 식입니다.</p><p>예비비 비율은 이 도구가 보장하는 안전 여유가 아니라 사용자가 정한 시나리오입니다. 항공편 변경 수수료, 현지 교통, 세금과 환율 변동처럼 따로 확인해야 할 비용을 먼저 적은 뒤 예비비를 적용하면 이중 계산을 줄일 수 있습니다. 결과의 1인당 금액은 균등 분담을 전제로 하므로 객실 유형이나 활동 참여가 다르면 참가자끼리 항목별 부담액을 조정해야 합니다.</p></section></article>
 <div class="ad-slot" role="complementary" aria-label="광고 영역"><!-- AdSense: 설명 중간 --><span>광고</span></div><section class="section faq"><h2>여행 예산 계산기 FAQ</h2><details><summary>숙박비는 1인 금액인가요?</summary><p>아닙니다. 함께 사용하는 전체 객실의 1박 합계를 입력합니다.</p></details><details><summary>당일치기는 숙박일을 어떻게 입력하나요?</summary><p>숙박일을 0으로 입력하면 숙박비가 합계에 포함되지 않습니다.</p></details><details><summary>항공권은 어디에 입력하나요?</summary><p>1인 교통비에 항공권과 기차표 등 개인별 왕복 교통비를 합쳐 입력하세요.</p></details><details><summary>예비비는 반드시 넣어야 하나요?</summary><p>필수는 아니며 0%도 가능합니다. 가격 변동 가능성이 크면 일정 비율을 두는 편이 안전합니다.</p></details><details><summary>실제 여행 후 비용을 나누려면요?</summary><p>여행 경비 분배 계산기에서 참가자별 결제금액을 입력하세요.</p></details><details><summary>입력값은 서버에 저장되나요?</summary><p>아닙니다. 자동 복원을 위해 현재 브라우저에만 저장됩니다.</p></details></section>
 <div class="ad-slot" role="complementary" aria-label="광고 영역"><!-- AdSense: 관련 도구 위 --><span>광고</span></div><section class="section"><h2>관련 여행 계산기</h2><div class="tools-grid"><a class="tool-card" href="/travel-expense-splitter/"><span class="tool-icon" aria-hidden="true">🧾</span><h3>여행 경비 분배</h3><p>실제 결제금액 정산</p></a></div></section></div></main><div data-site-footer></div></body></html>

diff --git a/calculator/image-tools/index.html b/calculator/image-tools/index.html
@@ -53,7 +53,7 @@
     <p>회전은 오른쪽 90도, 180도, 왼쪽 90도를 지원합니다. 90도 또는 270도 회전하면 최종 파일의 가로와 세로 크기가 서로 바뀝니다. 좌우 뒤집기는 거울처럼 수평 방향을 반전하고, 상하 뒤집기는 위아래 방향을 반전합니다. 회전과 뒤집기를 동시에 선택할 수도 있으므로 셀카 방향 수정, 스캔 문서 바로 세우기, 제품 사진의 방향 통일에 활용할 수 있습니다. 처리 후 미리보기와 최종 픽셀 크기를 확인한 다음 파일을 내려받으세요.</p>
     <p>선택한 원본 파일과 결과 이미지는 생활계산소 서버로 업로드되지 않습니다. 파일 읽기, 리사이즈, 회전, 압축과 형식 변환은 현재 브라우저의 Canvas API에서 실행됩니다. localStorage에는 저장 형식, 압축 품질, 비율 유지와 회전·뒤집기 같은 사용자 설정만 보관하며 이미지 파일과 미리보기는 저장하지 않습니다. 탭을 닫거나 새로 고치면 결과가 사라지므로 필요한 파일은 반드시 다운로드하세요. 25MB 또는 4,000만 화소를 넘는 이미지는 모바일 기기의 메모리 부족과 브라우저 중단을 줄이기 위해 제한합니다.</p>
     <section data-content-examples><h2>구체적인 상황으로 이해하는 활용 예시</h2><p>다음 세 상황은 도구의 처리 과정과 결과 해석을 설명하기 위한 가상 예시입니다. 입력 조건을 바꾸면 결과도 달라지므로 자신의 조건과 비교해 확인하세요.</p><section class="calculation-example"><h3>1. 4,000×3,000 사진을 가로 1,200으로 축소</h3><p>가로세로 비율을 유지하면 축소 배율은 1,200 ÷ 4,000 = 0.3이고 높이는 900픽셀이 됩니다. 픽셀 수는 12,000,000개에서 1,080,000개로 원본의 9%가 됩니다. 파일 바이트도 정확히 9%가 되는 것은 아니며 형식과 이미지 내용, 압축 품질에 따라 별도로 달라집니다.</p></section><section class="calculation-example"><h3>2. 정사각형 이미지를 절반 크기로 변경</h3><p>2,000×2,000 이미지를 1,000×1,000으로 줄이면 각 변은 절반이지만 면적은 4,000,000픽셀에서 1,000,000픽셀로 4분의 1입니다. 투명한 로고라면 PNG나 투명도를 지원하는 출력 형식을 확인하세요. 나중에 크기를 다시 키워도 축소 과정에서 사라진 세부 픽셀이 원래대로 복원되지는 않습니다.</p></section><section class="calculation-example"><h3>3. 같은 사진의 품질을 달리 비교</h3><p>가로 1,200픽셀 JPG를 품질 90%와 70%로 각각 저장한다고 가정합니다. 치수는 같아도 파일 크기와 경계의 압축 흔적은 달라질 수 있으며 20%포인트를 낮춘다고 용량이 반드시 20% 줄지는 않습니다. 결과 파일을 확대해 글자·피부·단색 경계 등을 확인한 뒤 사용 목적에 맞는 쪽을 선택하세요.</p></section></section><!-- content-examples:end -->
-  </article>
+  <section class="content-depth"><h2>원본 화질과 결과 파일을 비교하는 방법</h2><p>이미지의 가로·세로 픽셀 수를 줄이면 화면에 필요한 해상도에 맞춰 파일 크기를 줄일 수 있습니다. 반대로 작은 원본의 픽셀 수를 크게 지정해도 없던 세부 정보가 생기지는 않습니다. 사진을 반복해서 손실 압축 형식으로 저장하면 품질이 누적해서 떨어질 수 있으므로 원본을 따로 보관하고 한 번의 변환으로 목표 크기를 만드는 편이 좋습니다.</p><p>JPG는 투명 배경을 보존하지 못하고 PNG는 사진처럼 색 변화가 많은 이미지에서 파일이 커질 수 있습니다. WebP는 브라우저 환경과 사용처의 지원 여부를 먼저 확인하세요. 저장 형식과 품질을 조절한 뒤에는 용량 숫자만 보지 말고 글자 가장자리, 얼굴과 세밀한 무늬가 흐려지지 않았는지 실제 출력 크기로 살펴보세요. 업로드 서비스가 요구하는 픽셀 제한과 허용 형식도 최종 확인이 필요합니다.</p></section></article>
   <div class="ad-slot" role="complementary" aria-label="광고 영역"><!-- AdSense: 설명 중간 --><span>광고</span></div>
   <section class="section faq"><h2>이미지 크기 변경·압축 FAQ</h2>
     <details><summary>이미지가 서버로 업로드되나요?</summary><p>아닙니다. 파일 선택부터 변환과 미리보기 생성까지 현재 브라우저에서만 처리합니다. 이미지 파일을 서버나 localStorage에 저장하지 않습니다.</p></details>

diff --git a/calculator/color-tools/index.html b/calculator/color-tools/index.html
@@ -37,7 +37,7 @@
     <p>선택한 마지막 색상은 다음 방문 때 이어서 사용할 수 있도록 현재 브라우저의 localStorage에 사용자 설정으로만 저장됩니다. 계정이나 서버와 동기화되지 않으며 브라우저 데이터를 지우면 함께 삭제됩니다. 변환 계산에는 외부 API나 외부 색상 라이브러리를 사용하지 않습니다. 따라서 네트워크 연결이 느린 환경에서도 페이지가 이미 열려 있다면 색상 코드를 즉시 바꿀 수 있습니다.</p>
     <h2>색상 도구 사용 방법</h2><div class="content-grid three"><section class="info-card"><h3>HEX를 RGB로 변환</h3><p>#을 포함한 3자리 또는 6자리 HEX 코드를 입력하고 변환 버튼을 누릅니다. 잘못된 문자나 자리 수가 있으면 입력칸 가까이에 오류 설명이 표시됩니다.</p></section><section class="info-card"><h3>RGB를 HEX로 변환</h3><p>R, G, B에 각각 0~255 정수를 입력합니다. 어느 RGB 칸을 마지막으로 수정했는지 확인해 그 값을 기준으로 HEX 코드와 미리보기를 갱신합니다.</p></section><section class="info-card"><h3>색상 선택기로 고르기</h3><p>색상 영역을 누르고 원하는 색을 고르면 모든 코드가 자동으로 맞춰집니다. 변환 후 복사 버튼을 누르면 HEX, RGB, HSL과 대비값을 한 번에 복사합니다.</p></section></div>
     <section data-content-examples><h2>구체적인 상황으로 이해하는 활용 예시</h2><p>다음 세 상황은 도구의 처리 과정과 결과 해석을 설명하기 위한 가상 예시입니다. 입력 조건을 바꾸면 결과도 달라지므로 자신의 조건과 비교해 확인하세요.</p><section class="calculation-example"><h3>1. 브랜드 초록색의 RGB 확인</h3><p>#2F7D68을 입력하면 2F는 47, 7D는 125, 68은 104이므로 RGB 47·125·104가 됩니다. 코드 형식을 바꿔도 같은 sRGB 색을 표현합니다. 웹 문서에서는 속성에 맞는 형식으로 넣고 실제 배경과 글자 조합의 대비를 별도로 확인해야 합니다.</p></section><section class="calculation-example"><h3>2. 검정과 흰색의 대비를 비교</h3><p>검정 #000000과 흰색 #FFFFFF의 상대 휘도는 각각 0과 1입니다. 대비 계산은 (1 + 0.05) ÷ (0 + 0.05)로 21:1입니다. 이 수치는 색 조합의 대비를 뜻하며 작은 글씨 크기, 글꼴, 흐린 화면과 이미지 배경 등 다른 가독성 요소를 자동 해결하는 것은 아닙니다.</p></section><section class="calculation-example"><h3>3. 같은 색을 배경과 글자에 지정</h3><p>배경과 글자를 모두 #808080으로 지정하면 두 휘도가 같아 대비비는 1:1입니다. 화면에서 글자가 보이지 않는 이유를 수치로 확인하는 사례입니다. 색이 서로 다르더라도 휘도가 비슷하면 대비가 낮을 수 있으므로 색상 이름이나 채도만 보고 읽기 쉬울 것이라고 판단하지 마세요.</p></section></section><!-- content-examples:end -->
-  </article>
+  <section class="content-depth"><h2>색상값을 서로 비교할 때</h2><p>HEX의 두 자리는 빨강·초록·파랑 채널의 0~255 값을 16진수로 나타냅니다. 예를 들어 RGB의 각 채널을 바꾸면 같은 화면에서 HEX도 함께 바뀌므로, 먼저 입력한 값이 6자리 색상인지와 채널 순서가 맞는지 확인하세요. 색상 입력은 코드 자체와 실제 화면에서 보이는 색이 항상 같은 문제는 아닙니다. 모니터 특성, 밝기와 주변 배경에 따라 체감은 달라질 수 있습니다.</p><p>대비 수치를 읽을 때는 글자색과 배경색의 역할을 분명히 정하세요. 같은 두 색을 사용해도 작은 글자, 굵은 큰 글자와 아이콘의 가독성은 다르게 느껴질 수 있습니다. 색상 대비 계산은 조합을 좁히는 출발점이며, 실제 버튼과 본문에 적용한 뒤 명암이 낮은 화면이나 모바일에서도 읽히는지 확인해야 합니다. 브랜드 색을 유지해야 한다면 배경과 텍스트 중 한쪽만 조정해 여러 안을 비교해 보세요.</p></section></article>
   <div class="ad-slot" role="complementary" aria-label="광고 영역"><!-- AdSense: 설명 중간 --><span>광고</span></div>
   <section class="section faq"><h2>HEX RGB 색상 도구 FAQ</h2>
     <details><summary>HEX 앞의 #은 꼭 입력해야 하나요?</summary><p>아니요. #을 생략해도 3자리 또는 6자리 16진수라면 인식하고 결과에는 #을 붙여 표시합니다.</p></details>

diff --git a/calculator/developer-tools/index.html b/calculator/developer-tools/index.html
@@ -40,7 +40,7 @@
     <h2>기능별 사용 방법</h2>
     <div class="content-grid three"><section class="info-card"><h3>JSON Beautify와 압축</h3><p>JSON을 붙여 넣고 들여쓰기 폭을 선택해 실행합니다. 정리는 계층을 여러 줄로 보여주고 압축은 공백 없는 한 줄로 만듭니다. 오류가 표시되면 따옴표, 쉼표와 괄호의 짝을 먼저 확인하세요.</p></section><section class="info-card"><h3>UTF-8 Base64 변환</h3><p>한글·영문 원문을 인코딩하거나 Base64 문자열을 디코딩합니다. 결과는 복사할 수 있지만 보안 기능은 아니므로 비밀번호와 인증 키를 공개 채널에 공유하면 안 됩니다.</p></section><section class="info-card"><h3>URL 문자열 변환</h3><p>검색어 하나는 ‘일부 문자열’, https://로 시작하는 완성 주소는 ‘전체 URL 구조 유지’를 선택합니다. 변환 후 목적 서비스가 요구하는 인코딩 범위와 일치하는지 확인하세요.</p></section></div>
     <section data-content-examples><h2>구체적인 상황으로 이해하는 활용 예시</h2><p>다음 세 상황은 도구의 처리 과정과 결과 해석을 설명하기 위한 가상 예시입니다. 입력 조건을 바꾸면 결과도 달라지므로 자신의 조건과 비교해 확인하세요.</p><section class="calculation-example"><h3>1. JSON의 줄바꿈과 값 구분</h3><p>입력 {&quot;count&quot;:2,&quot;active&quot;:true}를 JSON 정리로 실행하면 두 속성이 들여쓰기를 갖춘 여러 줄로 배치됩니다. count의 숫자 2와 active의 불리언 true는 유지됩니다. count를 &quot;2&quot;처럼 따옴표로 감싸면 문자열이 되므로 포매터가 같은 의미로 고쳐 줄 것이라고 기대해서는 안 됩니다.</p></section><section class="calculation-example"><h3>2. 짧은 영문을 Base64로 변환</h3><p>일반 문자열 hello를 인코딩하면 aGVsbG8=가 됩니다. UTF-8 바이트를 Base64 문자로 나타낸 것이며 암호화가 아니므로 누구나 디코딩해 hello를 얻을 수 있습니다. 원문 5바이트와 결과 8문자는 크기도 다르며 비밀번호나 비밀키를 감추는 수단으로 사용하지 마세요.</p></section><section class="calculation-example"><h3>3. 주소 일부에 들어갈 공백 인코딩</h3><p>URL 일부 인코딩에 a b를 입력하면 a%20b가 됩니다. 공백 하나를 퍼센트 표기로 바꾼 결과이며 검색어 한 개의 값에 사용할 수 있습니다. 이미 인코딩한 a%20b를 다시 인코딩하면 %가 또 변환되어 a%2520b가 될 수 있으므로 원문과 인코딩 완료 값을 구분해 처리하세요.</p></section></section><!-- content-examples:end -->
-  </article>
+  <section class="content-depth"><h2>변환 결과를 검증하는 순서</h2><p>JSON 정리에서는 먼저 입력값이 올바른 JSON 문법인지 확인하세요. JSON의 숫자, 문자열, 불리언과 null은 서로 다른 자료형이며 따옴표를 제거하거나 붙이는 것만으로 의미가 바뀝니다. 화면에 보기 좋게 정리된 JSON이라도 대상 시스템의 필수 키와 스키마를 만족한다는 뜻은 아닙니다. 운영 환경에 넣기 전에는 실제 API 또는 프로그램의 검증 규칙으로 다시 확인해야 합니다.</p><p>Base64는 데이터를 다른 문자 집합으로 표현하는 인코딩이며 암호화가 아닙니다. 디코딩하면 원문을 읽을 수 있으므로 비밀번호나 토큰을 안전하게 보관하는 방법으로 사용하면 안 됩니다. URL 인코딩은 주소의 한 부분에 예약 문자와 공백을 넣을 때 유용하지만 주소 전체를 무조건 한 번에 인코딩하면 구분 기호까지 바뀔 수 있습니다. 변환 대상이 전체 URL인지 쿼리 값인지 구분한 다음 결과를 비교하세요.</p></section></article>
   <div class="ad-slot" role="complementary" aria-label="광고 영역"><!-- AdSense: 설명 중간 --><span>광고</span></div>
   <section class="section faq"><h2>JSON·Base64·URL 도구 FAQ</h2>
     <details><summary>입력한 JSON이나 문자열이 서버에 저장되나요?</summary><p>아니요. 원문과 결과는 현재 브라우저에서만 처리하며 저장하거나 전송하지 않습니다. 작업 종류 같은 화면 설정만 localStorage에 저장합니다.</p></details>

diff --git a/terms/index.html b/terms/index.html
@@ -15,16 +15,16 @@
 <p>서비스는 이용자가 입력한 조건과 각 도구에 구현된 계산식 또는 처리 방식에 따라 결과를 표시합니다. 사이트가 실제 거래를 중개하거나 금융상품을 판매하고, 세금 신고를 대행하거나 법률적 판단을 확정하는 것은 아닙니다.</p></section>
 <section><h2>제3조. 입력값과 결과 확인</h2>
 <p>이용자는 금액, 단위, 기간, 인원, 적용 지역 등 입력 조건을 확인해야 합니다. 입력 오류나 적용 대상의 차이에 따라 결과가 실제 상황과 달라질 수 있습니다.</p>
-<p>음식량, 준비물, 비용 예측 등은 일정한 가정을 사용하는 추정 기능입니다. 금리, 환율, 세율, 요금표와 제도는 변경될 수 있으므로, 기준일과 적용 범위를 확인하고 필요한 경우 최신 값을 직접 입력해야 합니다.</p>
+<p>여행 예산과 경비 정산 등은 일정한 가정을 사용하는 추정 기능입니다. 금리, 환율, 세율, 요금표와 제도는 변경될 수 있으므로, 기준일과 적용 범위를 확인하고 필요한 경우 최신 값을 직접 입력해야 합니다.</p>
 <p>사이트의 결과는 금융기관, 행정기관, 세무서, 법원 또는 계약 상대방이 확정한 금액이나 판단과 동일한 효력을 갖지 않습니다.</p></section>
 <section><h2>제4조. 참고용 정보 및 면책 조항</h2>
 <p><strong>생활계산소에서 제공하는 모든 계산 결과와 설명은 일반적인 정보 제공 및 참고를 위한 것입니다. 금융, 법률, 세무, 부동산 투자, 계약 체결 등 중요한 의사결정을 위한 전문적인 자문이나 확정적 판단을 대신하지 않습니다.</strong></p>
 <p><strong>이용자가 계산 결과만을 근거로 금융거래, 법률행위 또는 부동산 투자 등을 결정하여 발생한 손실에 대해, 운영자는 관계 법령이 허용하는 범위에서 책임을 부담하지 않습니다. 다만 운영자의 고의 또는 중대한 과실로 인한 책임이나 관계 법령상 배제할 수 없는 책임까지 면제하는 것은 아닙니다.</strong></p>
 <p>실제 대출 신청, 세금 신고, 부동산 계약 또는 투자에 앞서 해당 기관의 공식 자료와 계약 조건을 확인하고, 필요한 경우 자격 있는 전문가의 도움을 받아야 합니다.</p>
 <p>운영자는 계산식과 설명의 정확성을 높이기 위해 노력하지만, 모든 개별 상황에 대한 적합성이나 외부 정보의 실시간 반영을 보증하지 않습니다. 발견된 오류는 <a href="/contact/">문의처</a>를 통해 알려 주세요. 도구별 한계는 <a href="/disclaimer/">면책조항</a>에서도 안내합니다.</p></section>
-<section><h2>제5조. 성향 테스트와 생성 결과의 이용</h2>
-<p>성향·재미 테스트는 이용자의 응답을 바탕으로 일상의 선호를 돌아보기 위한 콘텐츠입니다. 공식 심리검사, 의료적 진단, 채용 평가 또는 능력 판정에 사용하도록 제공되는 서비스가 아닙니다.</p>
-<p>견적서·청구서와 참고문헌 등 생성 기능의 결과도 이용자가 내용을 검토하여 사용해야 합니다. 결과물의 생성만으로 법정 서식 요건, 회계 처리 요건 또는 특정 기관의 제출 기준을 모두 충족하는 것은 아닙니다.</p>
+<section><h2>제5조. 변환 결과의 이용</h2>
+<p>텍스트·이미지·색상 변환 결과는 이용자가 원본과 비교하고 사용할 서비스의 규칙에 맞는지 확인해야 합니다.</p>
+<p>부동산 관련 세금과 중개보수 결과는 입력 조건에 따른 참고치이며, 실제 신고·계약에 필요한 공식 확인을 대신하지 않습니다.</p>
 <p>개발 및 변환 도구의 결과를 실제 시스템에 적용할 때에는 사용 환경에 맞는 테스트와 검토가 필요합니다.</p></section>
 <section><h2>제6조. 이용자의 준수 사항</h2>
 <p>이용자는 관계 법령과 타인의 권리를 존중하여 서비스를 이용해야 합니다. 본인이 처리할 권한이 없는 개인정보, 기밀정보 또는 저작물을 도구에 입력하거나 다른 사람에게 공유해서는 안 됩니다.</p>

diff --git a/calculator/text-tools/index.html b/calculator/text-tools/index.html
@@ -49,7 +49,7 @@
       <section class="info-card"><h3>공백·빈 줄 정리</h3><p>연속 공백 정리는 여러 칸과 탭을 한 칸으로 줄이고, 빈 줄 제거는 내용 없는 행만 삭제합니다. 원래 문단 구성이 필요하다면 줄바꿈 제거 대신 이 기능을 사용하세요.</p></section>
     </div>
     <section data-content-examples><h2>구체적인 상황으로 이해하는 활용 예시</h2><p>다음 세 상황은 도구의 처리 과정과 결과 해석을 설명하기 위한 가상 예시입니다. 입력 조건을 바꾸면 결과도 달라지므로 자신의 조건과 비교해 확인하세요.</p><section class="calculation-example"><h3>1. 짧은 한글 문장의 글자와 바이트 비교</h3><p>안녕 세상을 입력하면 공백 포함 5개 코드 포인트, 공백 제외 4개입니다. 한글 4글자를 UTF-8로 각각 3바이트, 공백을 1바이트로 계산하면 총 13바이트입니다. 제출 사이트가 글자수와 바이트 중 어떤 제한을 쓰는지 확인해야 같은 문장이 한쪽에서는 허용되고 다른 곳에서는 초과하는 이유를 이해할 수 있습니다.</p></section><section class="calculation-example"><h3>2. PDF에서 복사한 줄바꿈 제거</h3><p>첫 줄 오늘은, 둘째 줄 좋은 날이라는 두 줄을 넣고 줄바꿈 제거를 실행하면 오늘은 좋은 날로 합쳐집니다. 줄의 경계는 공백으로 연결되므로 두 단어가 붙는 것을 피할 수 있습니다. 시나 표처럼 줄 자체가 의미를 갖는 자료에는 일괄 적용하지 말고 원문과 정리 결과를 비교하세요.</p></section><section class="calculation-example"><h3>3. 중복 명단과 정렬을 순서대로 적용</h3><p>민수, 지수, 민수를 각각 한 줄씩 입력해 중복 줄 제거를 실행하면 3줄이 2개의 서로 다른 이름으로 줄어듭니다. 이어 그 결과를 입력창에 옮겨 정렬하면 가나다순으로 확인할 수 있습니다. 동명이인은 같은 줄로 취급될 수 있으므로 실제 참가자라면 민수A와 민수B처럼 구분 정보를 먼저 붙여야 합니다.</p></section></section><!-- content-examples:end -->
-  </article>
+  <section class="content-depth"><h2>글자 수 제한을 확인할 때의 순서</h2><p>먼저 제출처가 “공백 포함”, “공백 제외”, “UTF-8 바이트” 중 어떤 기준을 쓰는지 확인하세요. 이 도구는 이 세 값을 함께 보여 주지만, 제출처가 줄바꿈을 한 글자로 세는지 두 글자로 세는지까지 대신 결정하지 않습니다. 복합 이모지와 조합형 문자도 서비스마다 계산 방법이 다를 수 있습니다. 마감 글자 수에 딱 맞추기보다 제출 화면에서 실제 카운터를 다시 확인할 수 있는 여유를 두는 편이 좋습니다.</p><p>텍스트 정리 기능을 사용할 때는 원문을 복사해 보관한 뒤 한 번에 하나의 작업을 적용해 보세요. 연속 공백 줄이기와 줄바꿈 제거는 문서의 의미를 보존하려고 설계했지만, 시·대본·표처럼 공백 자체가 표현의 일부라면 배치가 달라질 수 있습니다. 결과를 다시 입력칸으로 붙여 넣지 않으면 다음 작업이 원문을 기준으로 실행될 수 있으므로 여러 정리를 이어서 할 때는 각 단계의 입력 내용을 확인하세요.</p></section></article>
   <div class="ad-slot" role="complementary" aria-label="광고 영역"><!-- AdSense: 설명 중간 --><span>광고</span></div>
   <section class="section faq"><h2>텍스트 도구 FAQ</h2>
     <details><summary>한글 단어 수는 어떻게 계산하나요?</summary><p>형태소 분석이 아니라 띄어쓰기 기준으로 나눈 어절 수입니다. 국어학적인 단어 수와 다를 수 있습니다.</p></details>
